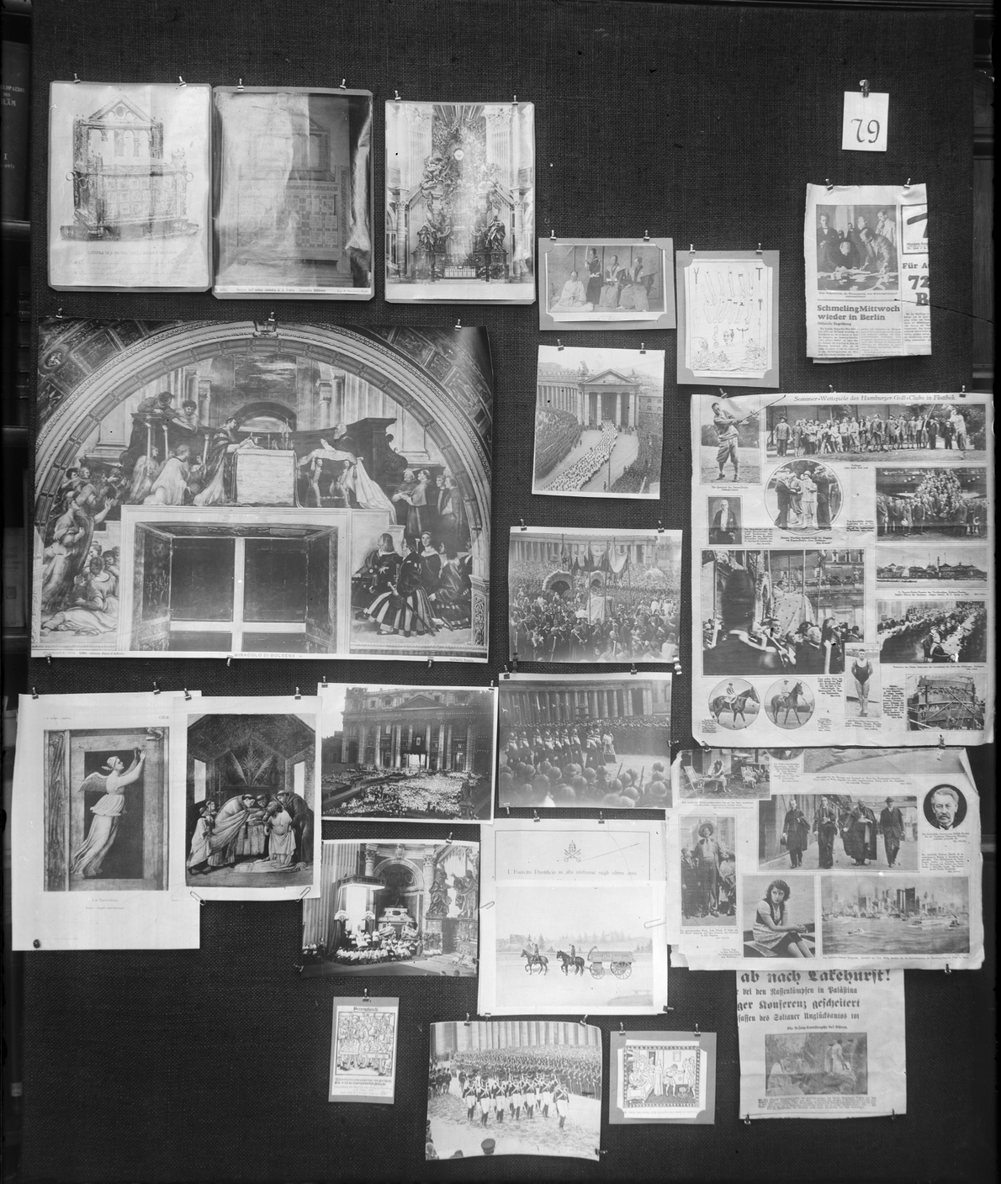
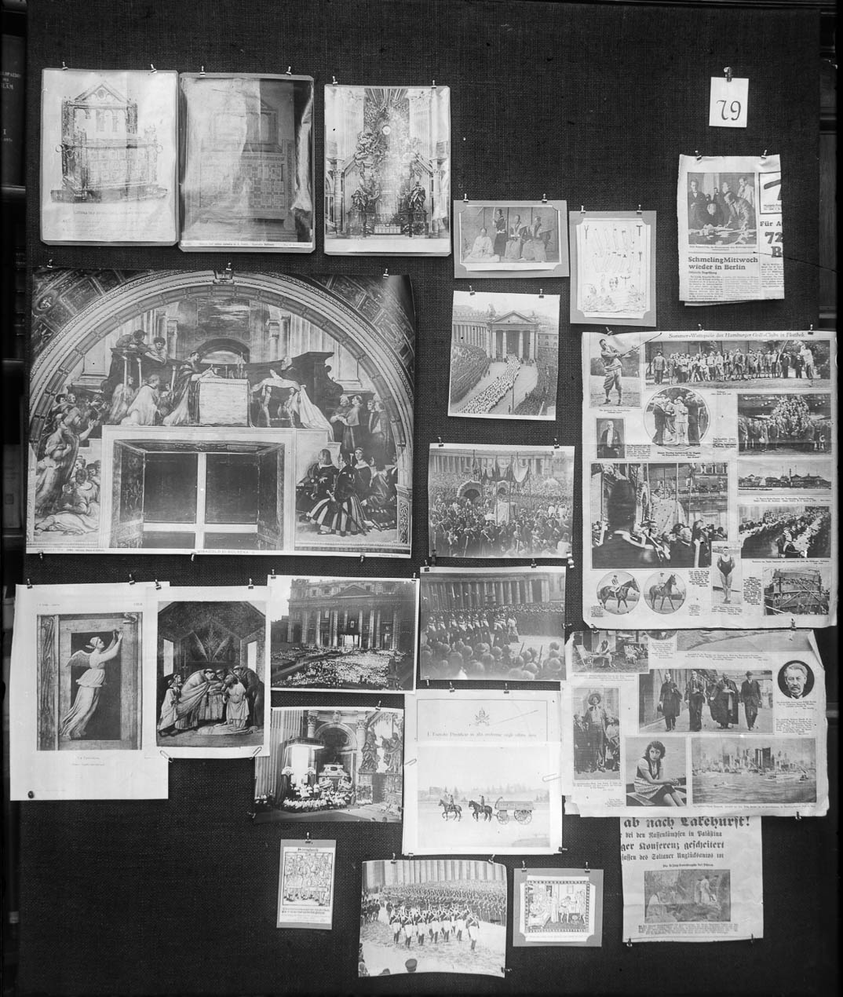
update
- reduce file size
- add space between citations

diff --git a/article.md b/article.md
@@ -70,7 +70,7 @@ This work is the product of an interdisciplinary collaboration, combining expert
 ## The conceptual framework of the Mnemosyne Atlas
 
 
-Aby Warburg’s Mnemosyne Atlas (1924–1929)—an unfinished series of 63 panels featuring over 1,000 images—reimagined art history as a spatial practice. By arranging photographs of artworks, maps, and ephemera on black fabric screens, Warburg sought to visualize the "afterlife" of symbols (<cite data-cite="7299034/5SBJCW9X"></cite>). It was a device that visually stored and displayed central aspects of Western visual memory. In Warburg's words, the Atlas was an instrument of "orientation" which, by exhibiting images and their visual relationships, allowed a researcher to illustrate how expressive values of  "life in motion" from Antiquity were reincorporated in Renaissance art (<cite data-cite="7299034/5SBJCW9X"></cite>, p. 35). Although generally associated with a collection of maps, as Antón-Barco argues, "atlases are a visual form of knowledge consisting on an encyclopedic collection of related objects or entities. Its mission is to offer a multitude of elements brought together by elective affinities so that its reader can understand the world that he or she lives in.” (<cite data-cite="7299034/JS2I4PY3"></cite>:46). In a sense, like the mythological Atlas, Warburg’s Atlas is sought to "carry the world on its back" (<cite data-cite="7299034/4TDN96K2"></cite>). In its final form, the Mnemosyne Atlas consisted of a set of large black fabric screens mounted to frames measuring 1.50 m x 2 m on which different photographs were grouped by attaching them with small, easily manipulated clamps (<cite data-cite="7299034/HY9N8YHZ"></cite>, p. 412). The panels where part of the Atlas consisted of sets of images organized by visual relationships, defined by certain recurring motifs of themes, gestures, and body configurations found in heterogeneous sources, not all of them considered, at the time, by art historians: from images extracted from art history books to advertisement pieces cut out from magazines. All this material was organized in groups and series, according to the links suggested by different visual, historical, and geographical resemblances. In general terms, this procedure could be described as a montage, in analogy to what Sergey Eisenstein or Dziga Vertov were developing at the time in cinema; that is, as an arrangement of elements in space and time in which the union of parts conforms a holistic meaning (<cite data-cite="7299034/HY9N8YHZ"></cite>;<cite data-cite="7299034/UBQT2LZL"></cite>;<cite data-cite="7299034/7IRYBDQE"></cite>).
+Aby Warburg’s Mnemosyne Atlas (1924–1929)—an unfinished series of 63 panels featuring over 1,000 images—reimagined art history as a spatial practice. By arranging photographs of artworks, maps, and ephemera on black fabric screens, Warburg sought to visualize the "afterlife" of symbols (<cite data-cite="7299034/5SBJCW9X"></cite>). It was a device that visually stored and displayed central aspects of Western visual memory. In Warburg's words, the Atlas was an instrument of "orientation" which, by exhibiting images and their visual relationships, allowed a researcher to illustrate how expressive values of  "life in motion" from Antiquity were reincorporated in Renaissance art (<cite data-cite="7299034/5SBJCW9X"></cite>, p. 35). Although generally associated with a collection of maps, as Antón-Barco argues, "atlases are a visual form of knowledge consisting on an encyclopedic collection of related objects or entities. Its mission is to offer a multitude of elements brought together by elective affinities so that its reader can understand the world that he or she lives in.” (<cite data-cite="7299034/JS2I4PY3"></cite>, p. 46). In a sense, like the mythological Atlas, Warburg’s Atlas is sought to "carry the world on its back" (<cite data-cite="7299034/4TDN96K2"></cite>). In its final form, the Mnemosyne Atlas consisted of a set of large black fabric screens mounted to frames measuring 1.50 m x 2 m on which different photographs were grouped by attaching them with small, easily manipulated clamps (<cite data-cite="7299034/HY9N8YHZ"></cite>, p. 412). The panels where part of the Atlas consisted of sets of images organized by visual relationships, defined by certain recurring motifs of themes, gestures, and body configurations found in heterogeneous sources, not all of them considered, at the time, by art historians: from images extracted from art history books to advertisement pieces cut out from magazines. All this material was organized in groups and series, according to the links suggested by different visual, historical, and geographical resemblances. In general terms, this procedure could be described as a montage, in analogy to what Sergey Eisenstein or Dziga Vertov were developing at the time in cinema; that is, as an arrangement of elements in space and time in which the union of parts conforms a holistic meaning (<cite data-cite="7299034/HY9N8YHZ"></cite>; <cite data-cite="7299034/UBQT2LZL"></cite>; <cite data-cite="7299034/7IRYBDQE"></cite>).
 
 ```python tags=["figure-panel79-*"]
 # An example of a panel from Mnemosyne Atlas (panel 79)
@@ -116,10 +116,10 @@ Additionally, it is important to assert that the Mnemosyne Atlas is not merely a
 ## Mnemosyne Atlas and digital humanities
 
 
-Currently, Warburg’s Atlas has served as an inspiration for imagining modes of organisation and arrangement of, and relationships between digital resources of online collections and databases of museums, archives, libraries, and other heritage organisations (<cite data-cite="7299034/RVS8WMLC"></cite>;<cite data-cite="7299034/PQPY36FK"></cite>;<cite data-cite="7299034/2YRPMV94"></cite>). This strategy has elicited reflection about the ways of collecting, safeguarding, interpreting, arranging, and exhibiting visual materials in the digital world (<cite data-cite="7299034/LDB7UQ48"></cite>); in computational analysis, the repetitive nature of  Pathosformeln has oriented the development of algorithms that recognize certain poses or gestures (<cite data-cite="7299034/LZCATTRL"></cite>); and the particular configuration of the panels has been compared to the electronic screen of different current digital devices like computers and smartphones (<cite data-cite="7299034/LDB7UQ48"></cite>). Indeed, the digital screen could be seen as analogous to the fabric panel, a frame that presents and encompasses a selection of images that enables comparative interpretation by proximity.
+Currently, Warburg’s Atlas has served as an inspiration for imagining modes of organisation and arrangement of, and relationships between digital resources of online collections and databases of museums, archives, libraries, and other heritage organisations (<cite data-cite="7299034/RVS8WMLC"></cite>; <cite data-cite="7299034/PQPY36FK"></cite>; <cite data-cite="7299034/2YRPMV94"></cite>). This strategy has elicited reflection about the ways of collecting, safeguarding, interpreting, arranging, and exhibiting visual materials in the digital world (<cite data-cite="7299034/LDB7UQ48"></cite>); in computational analysis, the repetitive nature of  Pathosformeln has oriented the development of algorithms that recognize certain poses or gestures (<cite data-cite="7299034/LZCATTRL"></cite>); and the particular configuration of the panels has been compared to the electronic screen of different current digital devices like computers and smartphones (<cite data-cite="7299034/LDB7UQ48"></cite>). Indeed, the digital screen could be seen as analogous to the fabric panel, a frame that presents and encompasses a selection of images that enables comparative interpretation by proximity.
 
 
-Adding to these novel readings of the Atlas in the digital world, here we intend to use the substrate of the digital canvas and its pixel array to develop interactive atlases. The copy-pasting affordance of pixels allows putting images together in order to display symbolic relationships between them. The arrangement of pixels, shapes, and images according to "x" and "y" coordinates allows the construction of a feature space (<cite data-cite="7299034/DLYHLH3V"></cite>,<cite data-cite="7299034/FARLPENA"></cite>) in which metadata can be used to organise elements in space. And the conventions of data visualisation allow to structure hierarchical relationships between different categories.  Additionally, the different layouts, or panels, can be organised as scenes that can be navigated along a z-dimension of meaning depth that constructs an hypertextual narrative (<cite data-cite="7299034/XSTGEJL7"></cite>). Under this light, the screen makes possible a digital interval and the development of a homogenised series, in which the potential originally expressed in Warburg's project of, say, navigating between hyperlinks, is realised (<cite data-cite="7299034/MMKZJFIN"></cite>).
+Adding to these novel readings of the Atlas in the digital world, here we intend to use the substrate of the digital canvas and its pixel array to develop interactive atlases. The copy-pasting affordance of pixels allows putting images together in order to display symbolic relationships between them. The arrangement of pixels, shapes, and images according to "x" and "y" coordinates allows the construction of a feature space (<cite data-cite="7299034/DLYHLH3V"></cite>; <cite data-cite="7299034/FARLPENA"></cite>) in which metadata can be used to organise elements in space. And the conventions of data visualisation allow to structure hierarchical relationships between different categories.  Additionally, the different layouts, or panels, can be organised as scenes that can be navigated along a z-dimension of meaning depth that constructs an hypertextual narrative (<cite data-cite="7299034/XSTGEJL7"></cite>). Under this light, the screen makes possible a digital interval and the development of a homogenised series, in which the potential originally expressed in Warburg's project of, say, navigating between hyperlinks, is realised (<cite data-cite="7299034/MMKZJFIN"></cite>).
 
 
 After a technical description of the tools used for our proposal, developed in the hermeneutic layer of the article, we will provide a case study example consisting of a collection of images that are related to the figure of the *Carguero* (Man carrier), the depiction of a person carrying another one, by piggy-back or using backpack chairs or other special accessories, working as a means of transportation in difficult geographic paths; a typical character in 19th century Colombian visual culture. This figure could be interpreted as a concrete and localised manifestation of the Pathosformel of carrying something or someone, which overlaps with the theme of the *carguero*—that is, the representation of a character or "social type” whose variations are structured by various details, (gestures and body configurations), which make possible the emotional expression of the tensions inherent to the theme.
@@ -713,13 +713,13 @@ display(Image("./media/interface6.png"), metadata=metadata)
 These data assisted readings of our collection by using interactive panels take us to the following question: why the travellers who were in Colombia/Nueva Granada in the period “1819-1851” did not use Humboldt’s Carguero model? What aesthetic, technical, and epistemic conditions made it possible for Roulin's model to circulate and to be re-signified in the different interpretation communities in which it was adapted? By reviewing the primary sources and secondary literature, we conclude that two factors must be considered to answer these questions. The first reason is technological, related to the techniques of inscription and practices of image circulation. The second is epistemological and rhetorical, related to the audiences that the inscriptions intended to affect. Bruno Latour understands these two aspects as part of the same process: the interest in inscriptions is understandable insofar as it is related to the trajectories, routes, and expansive plans that their technology and structure make possible. Correlatively, displacement allows for innovations in inscriptions, writing, archiving, and processing, which only make sense to the extent that they persuade and gain adherence in the midst of controversies (<cite data-cite="7299034/CT29YC4T"></cite>).
 
 
-The drawings and images made by Roulin participated in an image circulation network related to 19th century visual culture, such as the rationalisation of production, division of labour, and mass production for a market of travellers who were interested in these products. In the contemporary period, collections of images of travellers who were in South America at the beginning of the 19th century have become known thanks to donations from private collectors. This is the case of the Alphonse Giast collection in Argentina and Chile (<cite data-cite="7299034/P9BQM6PD"></cite>;<cite data-cite="7299034/NINP9SWY"></cite>), Joseph Brown collection, Le Moyne collection, and Roulin collection in Colombia (<cite data-cite="7299034/TJVGPCC8"></cite>;<cite data-cite="7299034/Y6X6CWGR"></cite>;<cite data-cite="7299034/YJIU4CYH"></cite>). Throughout the twentieth century, and even today, these images have been predominantly seen as visual testimonies of the early republic and, as such, have been integrated into narratives of nation building. Recently, researchers have compared the collections, including the corpus of images attributed to Roulin, and have found a series of iconographic coincidences that indicate the existence of practices of adapting models to different contexts by means of details, such as the background, tools, clothing, costumes, and other elements that vary between compositions (<cite data-cite="7299034/RTPHGI8V"></cite>). These practices have been analysed by researchers by using concepts such as "multiple authorship" and "multiple originals", allowing them to be placed on the horizon of other image-making practices that took place throughout South America in the postcolonial Hispanic space.
+The drawings and images made by Roulin participated in an image circulation network related to 19th century visual culture, such as the rationalisation of production, division of labour, and mass production for a market of travellers who were interested in these products. In the contemporary period, collections of images of travellers who were in South America at the beginning of the 19th century have become known thanks to donations from private collectors. This is the case of the Alphonse Giast collection in Argentina and Chile (<cite data-cite="7299034/P9BQM6PD"></cite>; <cite data-cite="7299034/NINP9SWY"></cite>), Joseph Brown collection, Le Moyne collection, and Roulin collection in Colombia (<cite data-cite="7299034/TJVGPCC8"></cite>;<cite data-cite="7299034/Y6X6CWGR"></cite>; <cite data-cite="7299034/YJIU4CYH"></cite>). Throughout the twentieth century, and even today, these images have been predominantly seen as visual testimonies of the early republic and, as such, have been integrated into narratives of nation building. Recently, researchers have compared the collections, including the corpus of images attributed to Roulin, and have found a series of iconographic coincidences that indicate the existence of practices of adapting models to different contexts by means of details, such as the background, tools, clothing, costumes, and other elements that vary between compositions (<cite data-cite="7299034/RTPHGI8V"></cite>). These practices have been analysed by researchers by using concepts such as "multiple authorship" and "multiple originals", allowing them to be placed on the horizon of other image-making practices that took place throughout South America in the postcolonial Hispanic space.
 
 
 Thus, Roulin's prominence in the visual culture of the early Republican period has been highlighted by other scholarship (<cite data-cite="7299034/MZ9FSNZV"></cite>). For example, Auguste Le Moyne copied the profile of Simón Bolívar drawn by Roulin in 1828 (<cite data-cite="7299034/ZF79WP3U"></cite>). Likewise, his watercolours were copied and published in the travelogues of Gaspar Mollien (1824), John Potter Hamilton (1827), Guilaume Lallement (1826), Alcide D'Orbigny (1841) and M. A. de Latrre (1848). Modifications of his motifs can also be found in engravings by John Potter Hamilton (1827, 1993), Gaetano Osculati (1954), and Cesar Famin (1837). Thus, it has been speculated that Roulin may have had a catalogue of plates at the service of travellers with scenes of customs, types, views, and monuments (<cite data-cite="7299034/MZ9FSNZV"></cite>; <cite data-cite="7299034/RTPHGI8V"></cite>).
 
 
-In relation to the aesthetic and scientific conditions of acceptability, Roulin's conceptual and visual universe is directly related to his scientific training as a physiologist practicing comparative anatomy in the scientific circle of the Académie des sciences in Paris. Roulin travelled to Colombia as a member of a scientific expedition that the plenipotentiary minister Francisco Antonio Zea had arranged for personalities such as Georges Cuvier and Alexander von Humboldt (<cite data-cite="7299034/HBG4E7CR"></cite>;<cite data-cite="7299034/84ASJI2S"></cite>). Likewise, he published some of the results of his research in the Annales des sciences naturelles (<cite data-cite="7299034/QU7TF99V"></cite>,<cite data-cite="7299034/8BS2RPC8"></cite>) and was involved in the posthumous edition of Le Règne Animal created by Cuvier's disciples in 1836 (<cite data-cite="7299034/VAD5AUXZ"></cite>). Roulin's watercolours and drawings, some of them made with the help of a camera lucida (Roulin in <cite data-cite="7299034/QU7TF99V"></cite>, p. 29), show his interest in highlighting aspects related to the animal and human classification that had been postulated in this scientific circle, which, from a visual point of view, sought to establish relationships between external characters, with the systematic functioning of internal organs (<cite data-cite="7299034/SU34NHK8"></cite>, p. 247; Senior, 2018). In the specific classification of the human race as a bipedal mammal, Cuvier considered that its development was determined by external aspects, such as climate or geography, and internal aspects, such as the intellectual characteristics of the races (<cite data-cite="7299034/VAD5AUXZ"></cite>, pp. 97-98). These were organised in a hierarchy that descended from the Caucasian race to the Ethiopian, which was represented as the least developed. The position of Americans in this classification was uncertain, since it was not possible to resolve the multiplicity of characteristics observed in the same category (<cite data-cite="7299034/VAD5AUXZ"></cite>, pp. 103-104). In fact, Roulin drew from Cuvier’s disciples edition of Le Règne Animal some of the plates of American types that illustrate their difficult classification, and is cited as one of the travellers who provided information on the subject (<cite data-cite="7299034/VAD5AUXZ"></cite>, pl XIV).
+In relation to the aesthetic and scientific conditions of acceptability, Roulin's conceptual and visual universe is directly related to his scientific training as a physiologist practicing comparative anatomy in the scientific circle of the Académie des sciences in Paris. Roulin travelled to Colombia as a member of a scientific expedition that the plenipotentiary minister Francisco Antonio Zea had arranged for personalities such as Georges Cuvier and Alexander von Humboldt (<cite data-cite="7299034/HBG4E7CR"></cite>;<cite data-cite="7299034/84ASJI2S"></cite>). Likewise, he published some of the results of his research in the Annales des sciences naturelles (<cite data-cite="7299034/QU7TF99V"></cite>; <cite data-cite="7299034/8BS2RPC8"></cite>) and was involved in the posthumous edition of Le Règne Animal created by Cuvier's disciples in 1836 (<cite data-cite="7299034/VAD5AUXZ"></cite>). Roulin's watercolours and drawings, some of them made with the help of a camera lucida (Roulin in <cite data-cite="7299034/QU7TF99V"></cite>, p. 29), show his interest in highlighting aspects related to the animal and human classification that had been postulated in this scientific circle, which, from a visual point of view, sought to establish relationships between external characters, with the systematic functioning of internal organs (<cite data-cite="7299034/SU34NHK8"></cite>, p. 247; Senior, 2018). In the specific classification of the human race as a bipedal mammal, Cuvier considered that its development was determined by external aspects, such as climate or geography, and internal aspects, such as the intellectual characteristics of the races (<cite data-cite="7299034/VAD5AUXZ"></cite>, pp. 97-98). These were organised in a hierarchy that descended from the Caucasian race to the Ethiopian, which was represented as the least developed. The position of Americans in this classification was uncertain, since it was not possible to resolve the multiplicity of characteristics observed in the same category (<cite data-cite="7299034/VAD5AUXZ"></cite>, pp. 103-104). In fact, Roulin drew from Cuvier’s disciples edition of Le Règne Animal some of the plates of American types that illustrate their difficult classification, and is cited as one of the travellers who provided information on the subject (<cite data-cite="7299034/VAD5AUXZ"></cite>, pl XIV).
 
 ```python tags=["figure-interface7-*"]
 # Comparision between Roulin's Animal Kingdom plate and a watercolour plate
@@ -757,7 +757,7 @@ metadata = {
 display(Image("./media/interface8.png"), metadata=metadata)
 ```
 
-Another derivation of Roulin's model of the Carguero is found in the travelogue of the British Diplomat Colonel John Potter Hamilton (<cite data-cite="7299034/ZJA9TWSP"></cite>), the first official envoy on behalf of the British government to Colombia. After returning to his homeland, he published his travelogue with the famous publishing house John Murray. This publishing house was noted, among other things, for tapping into the demand for such products, and published more than 200 travel books during the first half of the 19th century (<cite data-cite="7299034/YJEB294J"></cite>, p. 1334). Hamilton used, with adaptations, several of Roulin's models in his book. However, the new disposition of the image of the Carguero changes the direction of the characters and places them on a laborious ascent. They climb around a tree on the curve of a steep mountain road (see graphical comparison on scene called "roulinHamilton"). The image is similar to other images of the period, such as those in the travelogues of British merchant traveller Charles Stuart Cochrane (<cite data-cite="7299034/E4J6TU6R"></cite>) and Swedish diplomatic traveller August Gosselman (<cite data-cite="7299034/HQUVJJ2V"></cite>;<cite data-cite="7299034/7F7VVS9Z"></cite>). These images are characterized by the use of a picturesque aesthetic that functions as a device to frame the landscape and organize it with industrious human figures, settlements, crops, and productive animals, in contrast to the untamed wilderness that still needs to be controlled by man. In these stories, the images coexist with visual metaphors that frame the observations of nature as "pictures", "paintings", "drawings", "sketches", "maps", "scenery", "beautiful shows", "dioramas", "panoramas", "magic lanterns" or "Peep Shows". The use of the Carguero image is then indicative of the resignification of picturesque aesthetics in the voyages to America, characterised by the use of ethnographic and social themes of concern to travellers of the period (<cite data-cite="7299034/WFVWC9QP"></cite>), who were described by Mary Louis Pratt as the avant-garde of capitalism (<cite data-cite="7299034/QCYRHZVF"></cite>).
+Another derivation of Roulin's model of the Carguero is found in the travelogue of the British Diplomat Colonel John Potter Hamilton (<cite data-cite="7299034/ZJA9TWSP"></cite>), the first official envoy on behalf of the British government to Colombia. After returning to his homeland, he published his travelogue with the famous publishing house John Murray. This publishing house was noted, among other things, for tapping into the demand for such products, and published more than 200 travel books during the first half of the 19th century (<cite data-cite="7299034/YJEB294J"></cite>, p. 1334). Hamilton used, with adaptations, several of Roulin's models in his book. However, the new disposition of the image of the Carguero changes the direction of the characters and places them on a laborious ascent. They climb around a tree on the curve of a steep mountain road (see graphical comparison on scene called "roulinHamilton"). The image is similar to other images of the period, such as those in the travelogues of British merchant traveller Charles Stuart Cochrane (<cite data-cite="7299034/E4J6TU6R"></cite>) and Swedish diplomatic traveller August Gosselman (<cite data-cite="7299034/HQUVJJ2V"></cite>; <cite data-cite="7299034/7F7VVS9Z"></cite>). These images are characterized by the use of a picturesque aesthetic that functions as a device to frame the landscape and organize it with industrious human figures, settlements, crops, and productive animals, in contrast to the untamed wilderness that still needs to be controlled by man. In these stories, the images coexist with visual metaphors that frame the observations of nature as "pictures", "paintings", "drawings", "sketches", "maps", "scenery", "beautiful shows", "dioramas", "panoramas", "magic lanterns" or "Peep Shows". The use of the Carguero image is then indicative of the resignification of picturesque aesthetics in the voyages to America, characterised by the use of ethnographic and social themes of concern to travellers of the period (<cite data-cite="7299034/WFVWC9QP"></cite>), who were described by Mary Louis Pratt as the avant-garde of capitalism (<cite data-cite="7299034/QCYRHZVF"></cite>).
 
 ```python tags=["figure-interface9-*"]
 # Hamilton's Picturesque Carguero
@@ -832,7 +832,7 @@ We intended to track the Carguero theme through time and space in a manner simil
 ### The interactive panels
 
 
-For Antón-Barco, “Mnemosyne created a new kind of knowledge (visual) that intends to gather, through images, the dispersion –but also the secret coherence– of our entire world. It combines the aesthetic paradigm of the visual-form with an epistemic paradigm of knowledge." (<cite data-cite="7299034/JS2I4PY3"></cite>:53). We intended to show how such a historical strategy for studying visual sources and visual culture could be expanded by means of digital tools. This involved creating a hermeneutic collection from the consultation of physical and digital archives and the recompilation of fortuitous connections derived from the principle of good neighbourliness. Then, we adopted the computational process of filtering as an interpretative strategy and created a version of Warburg’s montage and homogenization strategies by using adapted conventions from the field of data visualisation, and finally we constructed an interactive tour based on a semi-linear structure that connected the panels through different hypertextual paths. These strategies helped us to both create a rich presentation and interpretation of the historical sources and to discover new relationships and readings of the data. The iterative workflow of Aventura.js —filtering data, rendering panels, and revising metadata—echoes Warburg’s own endless reordering of the Mnemosyne Atlas.
+For Antón-Barco, “Mnemosyne created a new kind of knowledge (visual) that intends to gather, through images, the dispersion –but also the secret coherence– of our entire world. It combines the aesthetic paradigm of the visual-form with an epistemic paradigm of knowledge." (<cite data-cite="7299034/JS2I4PY3"></cite>, p. 53). We intended to show how such a historical strategy for studying visual sources and visual culture could be expanded by means of digital tools. This involved creating a hermeneutic collection from the consultation of physical and digital archives and the recompilation of fortuitous connections derived from the principle of good neighbourliness. Then, we adopted the computational process of filtering as an interpretative strategy and created a version of Warburg’s montage and homogenization strategies by using adapted conventions from the field of data visualisation, and finally we constructed an interactive tour based on a semi-linear structure that connected the panels through different hypertextual paths. These strategies helped us to both create a rich presentation and interpretation of the historical sources and to discover new relationships and readings of the data. The iterative workflow of Aventura.js —filtering data, rendering panels, and revising metadata—echoes Warburg’s own endless reordering of the Mnemosyne Atlas.
 
 
 A challenge derived from this approach is the defence of subjective selection and interpretation in the context of scholar research in the humanities that use computational tools. The use of computation sometimes hides the multiple decisions made in a research project under the guise of supposed mechanical objectivity of computers. We, following authors like Drucker (<cite data-cite="7299034/ZAMMD7FP"></cite>), wanted to make explicit such a hermeneutic process and to defend its value. Collecting is an activity that helps to enrich historical readings of documents, in our case, visual pieces. Further research should also work towards a reconciliation between mechanical feature-based problems and the introduction of analytic categories like good neighbourliness. At the end, the goal of projects of this nature should be to find fruitful intertwining between user independent mechanistic approaches and interpretative approaches (<cite data-cite="7299034/ZAMMD7FP"></cite>).
